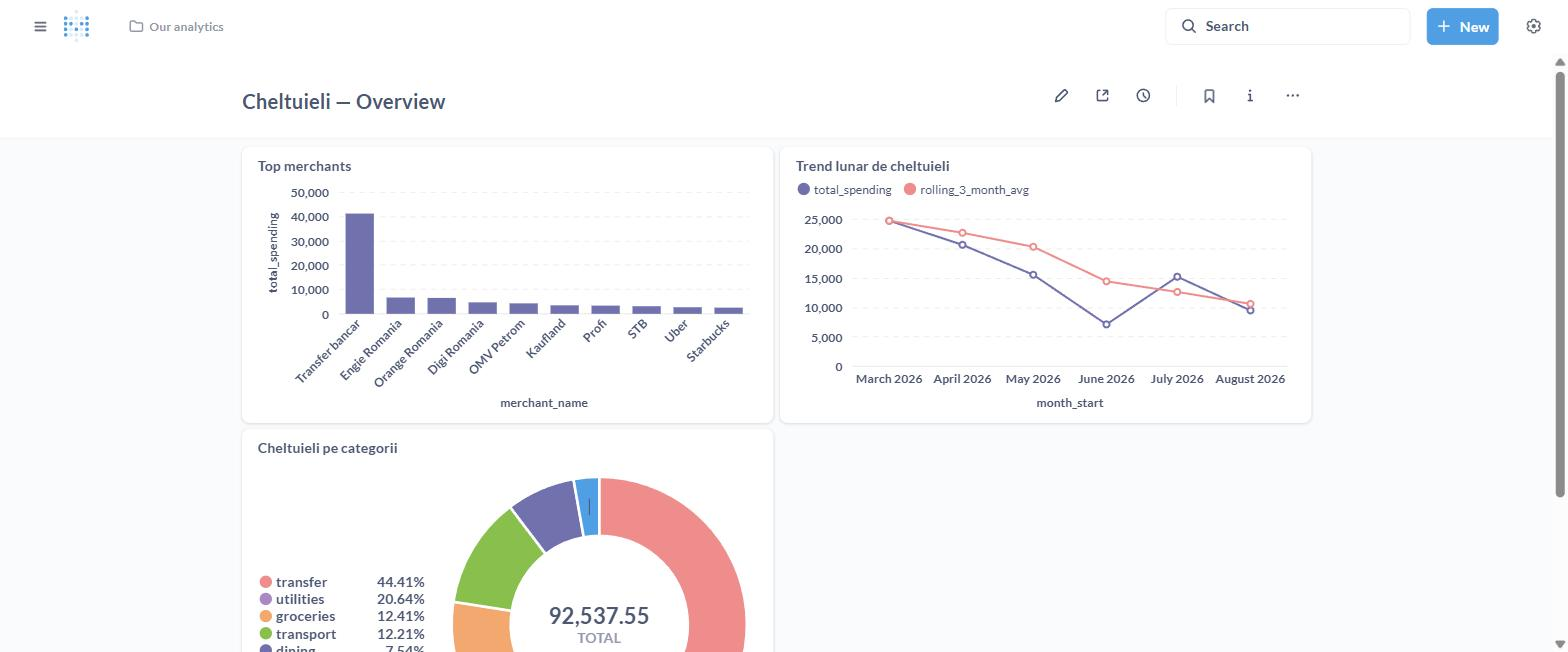
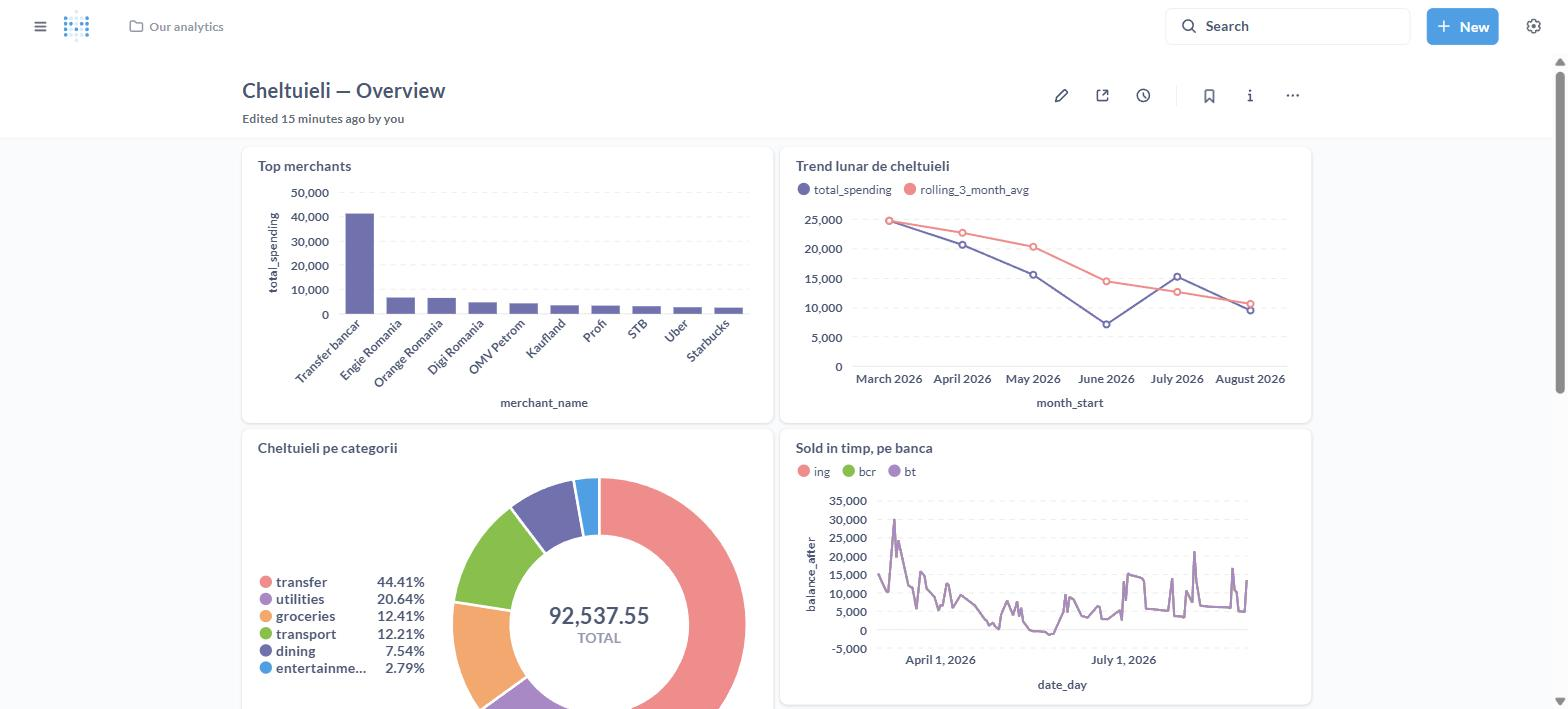
feat: extinde dashboard-ul Metabase cu venituri/cashflow, sold pe banca, weekend vs weekday
- mart_monthly_spending: coloane noi total_income si net_cashflow
- Metabase: 4 chart-uri noi in Cheltuieli - Overview (venituri vs
  cheltuieli, cumulative spending + rolling avg, sold in timp pe
  banca, cheltuieli weekend vs weekday)
- README + screenshot-uri actualizate

Claude-Session: https://claude.ai/code/session_01971TcxrGNeXPDJ81nZtcfi

diff --git a/README.md b/README.md
@@ -148,7 +148,7 @@ UI la http://localhost:3000 — primul start cere setup: creezi contul de admin 
 | Username / Password | `POSTGRES_USER` / `POSTGRES_PASSWORD` din `.env` |
 | Use a secure connection (SSL) | **nebifat** — Postgres-ul local rulează fără SSL configurat |
 
-Dashboard-ul `Cheltuieli — Overview` (cheltuieli pe categorii, trend lunar cu medie mobilă 3 luni, top merchants) e construit direct în UI din `marts.*`, nu versionat în git — Metabase își ține definițiile în propriul app DB (H2), nu în fișiere.
+Dashboard-ul `Cheltuieli — Overview` (cheltuieli pe categorii, trend lunar cu medie mobilă 3 luni, top merchants, venituri vs cheltuieli pe lună, cumulative spending, sold în timp pe bancă, cheltuieli weekend vs weekday) e construit direct în UI din `marts.*`, nu versionat în git — Metabase își ține definițiile în propriul app DB (H2), nu în fișiere. Chart-urile de venituri/cashflow folosesc coloanele `total_income`/`net_cashflow` adăugate în `mart_monthly_spending`; cele de sold și weekend-vs-weekday sunt native SQL questions direct peste `marts.fact_financial_transactions`/`marts.dim_date`, fiindcă sunt vizualizări unice, fără nevoie de un model dbt reutilizabil.
 
 ```bash
 make bi-down
@@ -159,6 +159,8 @@ make bi-down
 | dbt lineage graph | Dashboard Metabase |
 |---|---|
 | ![dbt lineage](docs/screenshots/dbt-lineage.jpg) | ![Metabase dashboard](docs/screenshots/metabase-dashboard.jpg) |
+
+![Metabase dashboard, continuare](docs/screenshots/metabase-dashboard-2.jpg)
 
 ## Structură
 
